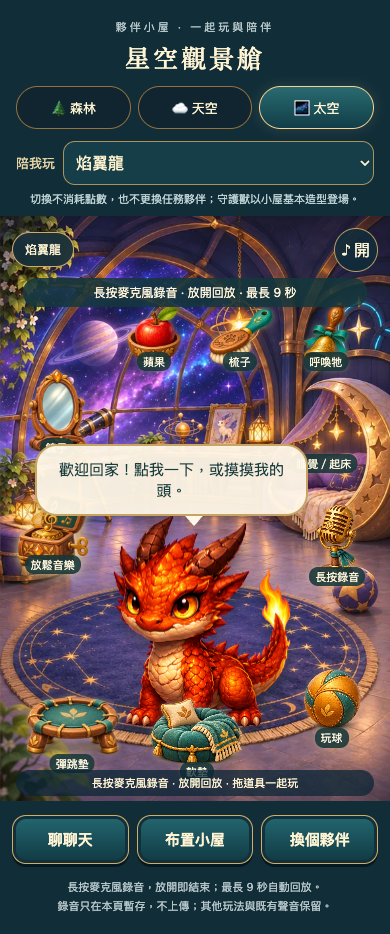
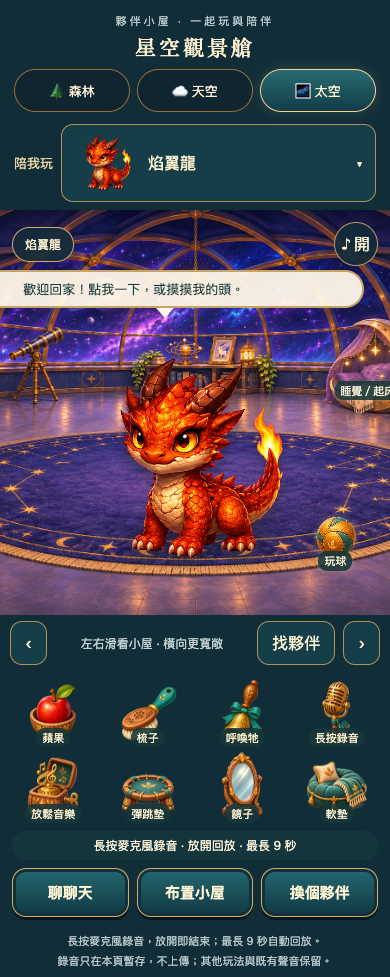
feat(home): apply wider rooms and responsive play space [actor:codex approval:user-24697]

diff --git a/public/guardian-home/free-ball.js b/public/guardian-home/free-ball.js
@@ -6,14 +6,15 @@
  let active=false,raf=0,last=0,elapsed=0,drag=null,suppressClick=false;
  let b={x:.8,y:1.2,vx:0,vy:0,spin:0},p={x:.5,y:1.12,vx:0,vy:0},nextKick=0,restUntil=0,contacts=0,face=1;
  const reduced=matchMedia('(prefers-reduced-motion: reduce)');
- function bounds(){return {left:.10,right:.90,top:.91,bottom:1.29}}
+ function height(){return stage.clientHeight/stage.clientWidth}
+ function bounds(){const h=height();return {left:.07,right:.93,top:h*.58,bottom:h*.90}}
  function stop(){active=false;cancelAnimationFrame(raf);raf=0;if(drag&&ball.hasPointerCapture(drag.id))ball.releasePointerCapture(drag.id);drag=null;stage.classList.remove('free-play');pet.classList.remove('ball-chase');pet.removeAttribute('data-ball-state');for(const key of ['left','top','width','transform'])pet.style.removeProperty(key);sprite.style.removeProperty('transform');sprite.style.removeProperty('background-position');sprite.style.removeProperty('animation');ball.removeAttribute('style');ball.dataset.caption='玩球';ball.setAttribute('aria-label','玩球，滑動球讓岩背龜追逐');lastPlay=Date.now()}
  const beforeReset=resetPet;resetPet=function(){stop();beforeReset()};
- function start(){if(active)return;if(panel.open||document.hidden)return;resetPet();active=true;elapsed=0;contacts=0;nextKick=.65;restUntil=.35;b={x:.80,y:1.19,vx:0,vy:0,spin:0};p={x:.50,y:1.12,vx:0,vy:0};stage.classList.add('free-play');pet.classList.add('ball-chase');ball.dataset.caption='滑一下球';say('把球滑出去，我來追！也可以點地毯傳球。');last=performance.now();render();raf=requestAnimationFrame(tick)}
- function render(){const size=.36+(p.y-.91)*.15;pet.style.width=`${size*100}%`;pet.style.left=`${(p.x-size*.5)*100}%`;pet.style.top=`${(p.y-size*.82)/1.5*100}%`;const speed=Math.hypot(p.vx,p.vy);if(Math.abs(p.vx)>.025)face=p.vx>0?-1:1;const gait=elapsed*15;const bob=reduced.matches?0:Math.sin(gait)*Math.min(3,speed*10);sprite.style.animation='none';sprite.style.backgroundPosition=speed>.04?(Math.sin(gait)>0?'50% 100%':'100% 100%'):(elapsed<restUntil?'100% 0%':'0% 0%');sprite.style.transform=`translateY(${bob}px) scaleX(${face*(window.guardianProfile?.facing??1)}) rotate(${reduced.matches?0:clamp(-p.vx*8,-4,4)}deg)`;ball.style.left=`${b.x*100}%`;ball.style.top=`${b.y/1.5*100}%`;ball.style.setProperty('--roll',`${b.spin}deg`);pet.dataset.ballState=drag?'watching':elapsed<restUntil?'resting':speed>.04?'chasing':'watching';}
+ function start(){if(active)return;if(panel.open||document.hidden)return;resetPet();active=true;elapsed=0;contacts=0;nextKick=.65;restUntil=.35;b={x:.68,y:height()*.80,vx:0,vy:0,spin:0};p={x:.50,y:height()*.80,vx:0,vy:0};stage.classList.add('free-play');pet.classList.add('ball-chase');ball.dataset.caption='滑一下球';say('把球滑出去，我來追！也可以點地毯傳球。');last=performance.now();render();raf=requestAnimationFrame(tick)}
+ function render(){const size=.26+(p.y/height()-.58)*.10;pet.style.width=`${size*100}%`;pet.style.left=`${(p.x-size*.5)*100}%`;pet.style.top=`${(p.y-size*.82)/height()*100}%`;const speed=Math.hypot(p.vx,p.vy);if(Math.abs(p.vx)>.025)face=p.vx>0?-1:1;const gait=elapsed*15;const bob=reduced.matches?0:Math.sin(gait)*Math.min(3,speed*10);sprite.style.animation='none';sprite.style.backgroundPosition=speed>.04?(Math.sin(gait)>0?'50% 100%':'100% 100%'):(elapsed<restUntil?'100% 0%':'0% 0%');sprite.style.transform=`translateY(${bob}px) scaleX(${face*(window.guardianProfile?.facing??1)}) rotate(${reduced.matches?0:clamp(-p.vx*8,-4,4)}deg)`;ball.style.left=`${b.x*100}%`;ball.style.top=`${b.y/height()*100}%`;ball.style.setProperty('--roll',`${b.spin}deg`);pet.dataset.ballState=drag?'watching':elapsed<restUntil?'resting':speed>.04?'chasing':'watching';}
  function tick(now){if(!active)return;const dt=Math.min(.034,(now-last)/1000);last=now;elapsed+=dt;const lim=bounds();if(!drag){b.x+=b.vx*dt;b.y+=b.vy*dt;for(const [axis,vel,lo,hi] of [['x','vx',lim.left,lim.right],['y','vy',lim.top,lim.bottom]]){if(b[axis]<lo||b[axis]>hi){b[axis]=clamp(b[axis],lo,hi);b[vel]*=-.78}}const decay=Math.exp(-1.1*dt);b.vx*=decay;b.vy*=decay;b.spin+=b.vx*dt*1000;}
- const dx=b.x+b.vx*.12-p.x,dy=b.y+b.vy*.12-p.y,d=Math.hypot(dx,dy);const speedCap=reduced.matches?.18:.39;let tx=0,ty=0;if(!drag&&elapsed>restUntil&&d>.085){const speed=Math.min(speedCap,d*1.8);tx=dx/d*speed;ty=dy/d*speed;}const ease=1-Math.exp(-5*dt);p.vx+=(tx-p.vx)*ease;p.vy+=(ty-p.vy)*ease;p.x=clamp(p.x+p.vx*dt,.18,.82);p.y=clamp(p.y+p.vy*dt,.96,1.27);
- if(!drag&&elapsed>restUntil&&elapsed>nextKick&&Math.hypot(b.x-p.x,b.y-p.y)<.14){const angle=Math.atan2(b.y-p.y,b.x-p.x)+(Math.random()-.5)*1.4;const strength=.35+Math.random()*.22;b.vx=Math.cos(angle)*strength;b.vy=Math.sin(angle)*strength;if(b.x<.2)b.vx=Math.abs(b.vx);if(b.x>.8)b.vx=-Math.abs(b.vx);if(b.y<1)b.vy=Math.abs(b.vy);if(b.y>1.22)b.vy=-Math.abs(b.vy);contacts++;nextKick=elapsed+1;restUntil=elapsed+(contacts%4===0?2.4:.30);if(contacts%4===0)say('呼～休息一下，換你傳給我！');else if(contacts===1)say('頂到了！再來！');}
+ const dx=b.x+b.vx*.12-p.x,dy=b.y+b.vy*.12-p.y,d=Math.hypot(dx,dy);const speedCap=reduced.matches?.18:.39;let tx=0,ty=0;if(!drag&&elapsed>restUntil&&d>.085){const speed=Math.min(speedCap,d*1.8);tx=dx/d*speed;ty=dy/d*speed;}const ease=1-Math.exp(-5*dt);p.vx+=(tx-p.vx)*ease;p.vy+=(ty-p.vy)*ease;p.x=clamp(p.x+p.vx*dt,.15,.85);p.y=clamp(p.y+p.vy*dt,lim.top,lim.bottom);
+ if(!drag&&elapsed>restUntil&&elapsed>nextKick&&Math.hypot(b.x-p.x,b.y-p.y)<.14){const angle=Math.atan2(b.y-p.y,b.x-p.x)+(Math.random()-.5)*1.4;const strength=.35+Math.random()*.22;b.vx=Math.cos(angle)*strength;b.vy=Math.sin(angle)*strength;if(b.x<.2)b.vx=Math.abs(b.vx);if(b.x>.8)b.vx=-Math.abs(b.vx);if(b.y<lim.top+.04)b.vy=Math.abs(b.vy);if(b.y>lim.bottom-.04)b.vy=-Math.abs(b.vy);contacts++;nextKick=elapsed+1;restUntil=elapsed+(contacts%4===0?2.4:.30);if(contacts%4===0)say('呼～休息一下，換你傳給我！');else if(contacts===1)say('頂到了！再來！');}
  render();if(elapsed>32&&!drag){stop();say('玩得好開心！想再玩就碰一下球。');return}raf=requestAnimationFrame(tick)}
  function point(e){const r=stage.getBoundingClientRect();return {x:(e.clientX-r.left)/r.width,y:(e.clientY-r.top)/r.width}}
  ball.onclick=e=>{if(suppressClick){suppressClick=false;return}start();b.vx=(p.x-b.x)*1.5;b.vy=-.15;tone()};

diff --git a/public/guardian-home/complete-home/index.html b/public/guardian-home/complete-home/index.html
@@ -6,8 +6,8 @@ $$('[data-room]').forEach(b=>b.onclick=()=>{state.room=+b.dataset.room;resetPet(
 $('#chat').onclick=()=>{open('<h2>想跟岩背龜說什麼？</h2><p>選一句話，看看牠怎麼回應你。</p><div class="choices"><button class="choice" data-talk="0">☀ 我今天很開心</button><button class="choice" data-talk="1">☾ 我有點累</button><button class="choice" data-talk="2">♡ 陪我一下</button><button class="choice" data-talk="3">✦ 我完成功課了</button></div><p class="tiny">這是固定台詞互動，不是 AI 自由聊天。</p>');$$('[data-talk]').forEach(b=>b.onclick=()=>{panel.close();happy(['你的開心也傳給我了！來，一起拍拍手！','辛苦了。我們慢慢呼吸，先休息一下吧。','好呀，不急著做什麼。我就在這裡陪你。','你有努力把事情做完耶！替自己拍拍手！'][+b.dataset.talk])})};
 $('#decorate').onclick=()=>{open('<h2>布置'+names[state.room]+'</h2><p>先試試小擺飾與燈光，每個房間分開記住。</p><div class="sub">窗邊小擺飾</div><div class="row">'+['原樣','✨ 星光','🌿 綠葉','💎 水晶'].map((x,i)=>`<button class="choice" data-decor="${i}" aria-pressed="${state.decor[state.room]===i}">${x}</button>`).join('')+'</div><div class="sub">房間燈光</div><button class="choice" id="light">'+(state.night[state.room]?'☀ 調亮房間':'☾ 柔和夜燈')+'</button><p id="saved" role="status">選擇後自動保存於這個瀏覽器。</p><p class="tiny">本版先示範擺飾切換；床、地毯與家具換款尚未開放。</p>');$$('[data-decor]').forEach(b=>b.onclick=()=>{state.decor[state.room]=+b.dataset.decor;render();save();$$('[data-decor]').forEach(x=>x.setAttribute('aria-pressed',x===b));$('#saved').textContent='✓ 已記住這個房間的布置'});$('#light').onclick=()=>{state.night[state.room]=!state.night[state.room];render();save();$('#light').textContent=state.night[state.room]?'☀ 調亮房間':'☾ 柔和夜燈';$('#saved').textContent='✓ 已記住燈光設定'}};
 $('#invite').onclick=()=>{open('<h2>邀請夥伴</h2><p>岩背龜已入住，點牠試試摸摸、休息與玩球。卡片收藏仍留在原本正式遊戲。</p><button class="choice" id="welcome">🐢 邀請岩背龜回到地毯</button><p class="tiny">不消耗卡片，不改動正式遊戲資料。</p>');$('#welcome').onclick=()=>{panel.close();happy('謝謝你邀請我！這裡就是我們的家。')}};render();say('歡迎回家！點我一下，或摸摸我的頭。');
-</script><script src="complete-home/interaction.js?v=2"></script><script src="motions.js?v=10"></script><script src="free-ball.js?v=11"></script><script src="complete-home/care-drag.js?v=2"></script><script src="music-call.js?v=11"></script><script src="touch-guard.js?v=11"></script><script>
+</script><script src="complete-home/interaction.js?v=2"></script><script src="motions.js?v=10"></script><script src="free-ball.js?v=12"></script><script src="complete-home/care-drag.js?v=2"></script><script src="music-call.js?v=12"></script><script src="touch-guard.js?v=12"></script><script>
 document.querySelector('header small').textContent='原始造型素材 · 2.5D 互動版';
 document.querySelector('.badge').textContent='岩背龜 · 原始設計';
 document.querySelector('footer').innerHTML='角色直接沿用原始造型圖，沒有重新建模或重新配色。<br>這是 2.5D 圖片互動，不是已還原完成的 3D 模型。<br>餵食、梳毛、玩球與音樂盒保留。';
-</script><script src="complete-home/bridge.js?v=3"></script><script type="importmap">{"imports":{"three":"./three-d/vendor/three.module.js"}}</script><script type="module" src="complete-home/face-loader.js?v=1"></script><style>.guardian-sprite{position:relative}.guardian-sprite canvas{position:absolute;inset:0;width:100%;height:100%;pointer-events:none}.guardian-sprite.face-on{background-image:none}.voice-avatar .guardian-sprite{background-image:url('assets/stoneback-poses-v1.png')!important}.voice-avatar canvas{display:none!important}.pet.fed-joy .guardian-sprite{animation:fed-joy .65s ease-in-out 3}@keyframes fed-joy{25%{transform:translateY(-8px) rotate(-5deg)}75%{transform:translateY(-4px) rotate(4deg)}}</style><link rel="stylesheet" href="complete-home/hold-voice.css?v=2"><script src="complete-home/hold-voice.js?v=2"></script><script src="complete-home/companion-picker.js?v=2"></script></html>
+</script><script src="complete-home/bridge.js?v=4"></script><script type="importmap">{"imports":{"three":"./three-d/vendor/three.module.js"}}</script><script type="module" src="complete-home/face-loader.js?v=1"></script><style>.guardian-sprite{position:relative}.guardian-sprite canvas{position:absolute;inset:0;width:100%;height:100%;pointer-events:none}.guardian-sprite.face-on{background-image:none}.voice-avatar .guardian-sprite{background-image:url('assets/stoneback-poses-v1.png')!important}.voice-avatar canvas{display:none!important}.pet.fed-joy .guardian-sprite{animation:fed-joy .65s ease-in-out 3}@keyframes fed-joy{25%{transform:translateY(-8px) rotate(-5deg)}75%{transform:translateY(-4px) rotate(4deg)}}</style><link rel="stylesheet" href="complete-home/hold-voice.css?v=2"><script src="complete-home/hold-voice.js?v=3"></script><script src="complete-home/companion-picker.js?v=2"></script><link rel="stylesheet" href="complete-home/wide-room.css?v=1"><script src="complete-home/wide-room.js?v=1"></script></html>

diff --git a/public/guardian-home/complete-home/wide-room.css b/public/guardian-home/complete-home/wide-room.css
@@ -1,0 +1,46 @@
+.app{display:block!important;max-width:1200px;min-height:100dvh}
+header{max-width:620px;margin:auto;padding:10px 14px 8px!important}
+header h1{font-size:21px;margin:3px 0 8px}.companion-note{display:none}
+.room-viewport{width:100%;overflow-x:auto;overflow-y:hidden;overscroll-behavior-x:contain;touch-action:pan-x pan-y pinch-zoom;scrollbar-width:thin}
+.app .stage{width:max(100%,720px);height:auto;max-height:none;aspect-ratio:var(--room-ratio,4/3);touch-action:pan-x pan-y pinch-zoom}
+.stage .room{background-size:100% 100%!important;background-position:center!important}
+.stage .pet{left:34%;top:var(--idle-top,45%);width:32%;touch-action:pan-x pan-y pinch-zoom}
+.stage .pet.sleep{left:var(--bed-x);top:var(--bed-y);width:18%}
+.stage .prop-bed{left:var(--bed-x);top:var(--bed-y);width:18%;height:22%;right:auto}
+.stage .ball{width:9%;left:65%;top:73%;right:auto}
+.stage.free-play .ball{width:8%;min-width:44px}
+.stage .care-ghost{width:76px}
+.stage .topline{left:calc(var(--camera-x,0px) + 12px);right:auto;width:calc(var(--camera-width,100%) - 24px);z-index:9;pointer-events:none}
+.topline .sound{pointer-events:auto}
+.stage .bubble,.stage.free-play .bubble,.stage.care-active .bubble,.stage.action-active .bubble{left:calc(var(--camera-x,0px) + 20px);width:calc(var(--camera-width,100%) - 40px);top:60px;max-width:460px;font-size:13px;padding:8px}
+.stage .hint{display:none}
+.view-controls{display:flex;align-items:center;justify-content:center;gap:8px;padding:6px 10px}
+.view-controls button{background:#153e48;border:1px solid #ae925b;border-radius:12px;min-height:44px;padding:8px 14px}
+.view-controls p{margin:0;font-size:12px;color:#c5d4d4;text-align:center;flex:1}
+.play-toolbar{display:grid;grid-template-columns:repeat(4,minmax(0,1fr));gap:4px;max-width:620px;margin:auto;padding:4px 8px 8px;-webkit-user-select:none;user-select:none;-webkit-touch-callout:none}
+.play-toolbar .room-prop{position:relative;left:auto;right:auto;top:auto;bottom:auto;width:64px;height:72px;min-width:44px;min-height:44px;justify-self:center;aspect-ratio:1;padding:0;border:0;background-color:transparent;background-size:300% 200%;background-repeat:no-repeat;font-size:0;border-radius:12px;color:#fff4d3;touch-action:pan-y pinch-zoom}
+.play-toolbar .care-source,.play-toolbar #voice{touch-action:none}
+.play-toolbar .prop-feed,.play-toolbar .prop-brush,.play-toolbar .prop-bell{background-image:url('../assets/care-props-v2.png')}
+.play-toolbar .prop-feed{background-position:0 0}.play-toolbar .prop-brush{background-position:50% 0}.play-toolbar .prop-bell{background-position:100% 0}
+.play-toolbar .prop-jump,.play-toolbar .prop-dance,.play-toolbar .prop-voice,.play-toolbar .prop-turn,.play-toolbar .prop-stretch{background-image:url('../assets/room-toys-v1.png')}
+.play-toolbar .prop-jump{background-position:0 0}.play-toolbar .prop-dance{background-position:50% 0}.play-toolbar .prop-voice{background-position:100% 0}.play-toolbar .prop-turn{background-position:0 100%}.play-toolbar .prop-stretch{background-position:50% 100%}
+.play-toolbar .room-prop:focus-visible{outline:2px solid white}.play-toolbar .care-held{opacity:.25}
+.hold-voice-status{position:static;max-width:600px;width:calc(100% - 24px);margin:0 auto;font-size:12px}
+.nav{flex-direction:row!important;max-width:620px;margin:auto;padding:8px 12px!important}footer{padding:6px 12px}
+@media(min-width:700px){.play-toolbar{max-width:900px;grid-template-columns:repeat(8,minmax(0,1fr))}}
+@media(orientation:landscape) and (max-height:520px) and (min-width:600px){
+ .app{display:grid!important;grid-template-columns:minmax(0,1fr) 150px;grid-template-rows:64px calc(100dvh - 114px) 50px auto;align-content:start}
+ header{grid-column:1/3;grid-row:1;display:flex;align-items:center;gap:12px;max-width:none;width:100%;padding:5px 10px!important}
+ header small,header h1,.companion-picker label{display:none}header .tabs{flex:1}.companion-picker{width:220px;margin:0}.companion-picker button{min-height:48px;padding:2px 8px}.companion-picker .companion-thumb{width:40px;height:40px}
+ .room-viewport{grid-column:1;grid-row:2;height:calc(100dvh - 114px)}
+ .app .stage{width:min(100%,calc((100dvh - 114px)*var(--room-ratio)));margin:auto}
+ .play-toolbar{grid-column:2;grid-row:2;grid-template-columns:repeat(2,minmax(0,1fr));padding:0;gap:0;width:100%;height:100%;align-content:space-evenly}
+ .play-toolbar .room-prop{width:48px;height:54px;min-height:44px}.play-toolbar .room-prop:after{font-size:10px}
+ .view-controls{grid-column:1;grid-row:3;padding:2px 4px}.hold-voice-status{grid-column:2;grid-row:3;font-size:10px;padding:2px}
+ .nav{grid-column:1/3;grid-row:4}footer{grid-column:1/3;grid-row:5}
+ .stage .bubble{top:48px!important;font-size:11px!important;padding:4px!important}
+}
+
+.stage.room-changing .pet{transition:none!important}
+
+.stage .prop-bed{touch-action:pan-x pan-y pinch-zoom}

diff --git a/public/guardian-home/music-call.js b/public/guardian-home/music-call.js
@@ -11,11 +11,11 @@
  function cancelCall(){cancelAnimationFrame(raf);clearTimeout(finish);const old=held;held=null;if(old&&bell.hasPointerCapture(old.id))bell.releasePointerCapture(old.id);ghost?.remove();ghost=null;bell.classList.remove('care-held');pet.classList.remove('being-called','music-sway');pet.removeAttribute('data-call');for(const k of ['left','top','width'])pet.style.removeProperty(k);sprite.style.removeProperty('transform');sprite.style.removeProperty('background-position');}
  resetPet=function(){cancelCall();previous();musicUI()};
  function ring(){try{const c=music||(ctx??=new(window.AudioContext||window.webkitAudioContext)());c.resume();const o=c.createOscillator(),g=c.createGain();o.connect(g);g.connect(c.destination);o.frequency.value=880;g.gain.setValueAtTime(.05,c.currentTime);g.gain.exponentialRampToValueAtTime(.001,c.currentTime+.7);o.start();o.stop(c.currentTime+.72);}catch{}}
- function come(x,y){resetPet();called++;ring();pet.classList.add('being-called');pet.dataset.call='walking';say('聽到鈴聲了，我來找你！');const r=stage.getBoundingClientRect(),tx=Math.max(.23,Math.min(.77,(x-r.left)/r.width)),ty=Math.max(.96,Math.min(1.25,(y-r.top)/r.width));const from={x:.5,y:1.14},start=performance.now(),duration=900+Math.hypot(tx-from.x,ty-from.y)*3000;const reduced=matchMedia('(prefers-reduced-motion: reduce)').matches;
- function draw(t){const v=Math.min(1,(t-start)/duration),u=v*v*(3-2*v),px=from.x+(tx-from.x)*u,py=from.y+(ty-from.y)*u;pet.style.width='44%';pet.style.left=`${(px-.22)*100}%`;pet.style.top=`${(py-.44*.82)/1.5*100}%`;sprite.style.transform=`scaleX(${(tx<from.x?1:-1)*(window.guardianProfile?.facing??1)}) translateY(${reduced?0:Math.sin(t/90)*2}px)`;sprite.style.backgroundPosition=Math.sin(t/90)>0?'50% 100%':'100% 100%';if(v<1)raf=requestAnimationFrame(draw);else{pet.dataset.call='arrived';sprite.style.transform='';sprite.style.backgroundPosition='50% 0%';say('我來啦！你在這裡呀。');finish=setTimeout(()=>{sprite.style.backgroundPosition='';pet.dataset.call='waiting'},1600)}}raf=requestAnimationFrame(draw);}
+ function come(x,y){resetPet();called++;ring();pet.classList.add('being-called');pet.dataset.call='walking';say('聽到鈴聲了，我來找你！');const r=stage.getBoundingClientRect(),h=r.height/r.width,tx=Math.max(.15,Math.min(.85,(x-r.left)/r.width)),ty=Math.max(h*.58,Math.min(h*.90,(y-r.top)/r.width));const from={x:.5,y:h*.80},start=performance.now(),duration=900+Math.hypot(tx-from.x,ty-from.y)*3000;const reduced=matchMedia('(prefers-reduced-motion: reduce)').matches;
+ function draw(t){const v=Math.min(1,(t-start)/duration),u=v*v*(3-2*v),px=from.x+(tx-from.x)*u,py=from.y+(ty-from.y)*u;pet.style.width='30%';pet.style.left=`${(px-.15)*100}%`;pet.style.top=`${(py-.30*.82)/h*100}%`;sprite.style.transform=`scaleX(${(tx<from.x?1:-1)*(window.guardianProfile?.facing??1)}) translateY(${reduced?0:Math.sin(t/90)*2}px)`;sprite.style.backgroundPosition=Math.sin(t/90)>0?'50% 100%':'100% 100%';if(v<1)raf=requestAnimationFrame(draw);else{pet.dataset.call='arrived';sprite.style.transform='';sprite.style.backgroundPosition='50% 0%';say('我來啦！你在這裡呀。');finish=setTimeout(()=>{sprite.style.backgroundPosition='';pet.dataset.call='waiting'},1600)}}raf=requestAnimationFrame(draw);}
  bell.dataset.caption='呼喚牠';bell.setAttribute('aria-label','鈴鐺，拖到地毯放手呼喚岩背龜');bell.classList.add('care-source');
  let blockClick=false;
- bell.onclick=()=>{if(blockClick)return;const r=stage.getBoundingClientRect();come(r.left+r.width*.65,r.top+r.width*1.12)};
+ bell.onclick=()=>{if(blockClick)return;const r=stage.getBoundingClientRect();come(r.left+r.width*.65,r.top+r.height*.80)};
  bell.onpointerdown=e=>{if(e.button!==0||held)return;e.preventDefault();resetPet();held={id:e.pointerId,x:e.clientX,y:e.clientY};ghost=document.createElement('span');ghost.className='care-ghost care-call';stage.append(ghost);bell.classList.add('care-held');bell.setPointerCapture(e.pointerId);position(e)};
  function position(e){if(!held||held.id!==e.pointerId)return;held.x=e.clientX;held.y=e.clientY;const r=stage.getBoundingClientRect();ghost.style.left=`${Math.max(20,Math.min(r.width-20,e.clientX-r.left))}px`;ghost.style.top=`${Math.max(20,Math.min(r.height-20,e.clientY-r.top))}px`;}
  bell.onpointermove=position;bell.onpointerup=e=>{if(!held||held.id!==e.pointerId)return;const {x,y}=held;blockClick=true;setTimeout(()=>blockClick=false,300);cancelCall();come(x,y)};bell.onpointercancel=()=>cancelCall();bell.onlostpointercapture=()=>{if(held)cancelCall()};window.addEventListener('pagehide',cancelCall);

diff --git a/public/guardian-home/complete-home/wide-room.js b/public/guardian-home/complete-home/wide-room.js
@@ -1,0 +1,19 @@
+(()=>{
+ const stage=$('.stage'),viewport=document.createElement('div');viewport.className='room-viewport';viewport.setAttribute('aria-label','加寬小屋，左右滑動查看');stage.before(viewport);viewport.append(stage);
+ const controls=document.createElement('div');controls.className='view-controls';controls.innerHTML='<button type="button" aria-label="向左看">‹</button><p>左右滑看小屋 · 橫向更寬敞</p><button type="button" aria-label="回到夥伴">找夥伴</button><button type="button" aria-label="向右看">›</button>';viewport.after(controls);
+ const toolbar=document.createElement('div');toolbar.className='play-toolbar';toolbar.setAttribute('aria-label','小屋玩具與照護');controls.after(toolbar);
+ for(const selector of ['.prop-feed','.prop-brush','.prop-bell','#voice','.prop-dance','.prop-jump','.prop-turn','.prop-stretch'])toolbar.append($(selector));
+ toolbar.after($('.hold-voice-status'));
+ let manualUntil=0,followFrame=0,previous=0;
+ function camera(){stage.style.setProperty('--camera-x',viewport.scrollLeft+'px');stage.style.setProperty('--camera-width',Math.min(viewport.clientWidth,stage.clientWidth)+'px')}
+ function center(smooth=false){const r=pet.getBoundingClientRect(),v=viewport.getBoundingClientRect();viewport.scrollTo({left:viewport.scrollLeft+r.left+r.width/2-v.left-v.width/2,behavior:smooth?'smooth':'instant'});camera()}
+ const btn=controls.querySelectorAll('button');btn[0].onclick=()=>{manualUntil=performance.now()+4000;viewport.scrollBy({left:-viewport.clientWidth*.65,behavior:'smooth'})};btn[2].onclick=()=>{manualUntil=performance.now()+4000;viewport.scrollBy({left:viewport.clientWidth*.65,behavior:'smooth'})};btn[1].onclick=()=>{manualUntil=0;center(true)};
+ viewport.addEventListener('scroll',camera,{passive:true});viewport.addEventListener('pointerdown',()=>manualUntil=performance.now()+3000,{passive:true});
+ const rooms=[['forest',4/3,56,29],['cloud',3/2,79,26],['cosmos',1672/941,65,25]];
+ function sync(){stage.classList.add('room-changing');const [name,ratio,bx,by]=rooms[state.room];stage.style.setProperty('--room-ratio',ratio);stage.style.setProperty('--idle-top',(80-.32*.82*ratio*100)+'%');stage.style.setProperty('--bed-x',bx+'%');stage.style.setProperty('--bed-y',by+'%');$('.room').style.backgroundImage=`url(assets/room-wide-${name}-v1.png)`;stage.dataset.wideRoom=name;void pet.offsetWidth;requestAnimationFrame(()=>{center();stage.classList.remove('room-changing')});}
+ const oldRender=render;render=function(){oldRender();sync()};sync();
+ const observer=new ResizeObserver(()=>{resetPet();sync()});observer.observe(viewport);
+ function follow(t){const dt=Math.min(40,t-previous||16);previous=t;if(!document.hidden&&!panel.open&&t>manualUntil&&(pet.classList.contains('ball-chase')||pet.classList.contains('being-called'))){const r=pet.getBoundingClientRect(),v=viewport.getBoundingClientRect(),dx=r.left+r.width/2-v.left-v.width/2;viewport.scrollLeft+=dx*(1-Math.exp(-dt/220));camera();}followFrame=requestAnimationFrame(follow)}followFrame=requestAnimationFrame(follow);
+ window.addEventListener('pagehide',()=>{cancelAnimationFrame(followFrame);observer.disconnect()});
+ window.guardianWideRoom={center,viewport,room:()=>state.room};
+})();

diff --git a/public/guardian-home/complete-home/hold-voice.js b/public/guardian-home/complete-home/hold-voice.js
@@ -20,8 +20,8 @@
  mic.addEventListener('keydown',e=>{if(e.code==='Space'||e.code==='Enter'){e.preventDefault();if(!e.repeat)begin('keyboard')}else if(e.code==='Escape')abort()});
  mic.addEventListener('keyup',e=>{if(e.code==='Space'||e.code==='Enter'){e.preventDefault();end('keyboard')}});mic.addEventListener('blur',()=>{if(held==='keyboard')abort()});
  // Suppress synthetic click (and the old click-to-open/reset listeners).
- room.addEventListener('click',e=>{if(e.target.closest('#voice')){e.preventDefault();e.stopImmediatePropagation()}},true);
- for(const name of ['contextmenu','selectstart','dragstart'])room.addEventListener(name,e=>e.preventDefault());
+ $('.app').addEventListener('click',e=>{if(e.target.closest('#voice')){e.preventDefault();e.stopImmediatePropagation()}},true);
+ for(const name of ['contextmenu','selectstart','dragstart'])$('.app').addEventListener(name,e=>e.preventDefault());
  document.addEventListener('visibilitychange',()=>{if(document.hidden)abort()});window.addEventListener('pagehide',abort);window.addEventListener('blur',()=>{if(held!==null)abort()});
  $('.hint').textContent='長按麥克風錄音 · 放開回放 · 拖道具一起玩';
  $('footer').innerHTML='長按麥克風錄音，放開即結束；最長 9 秒自動回放。<br>錄音只在本頁暫存，不上傳；其他玩法與既有聲音保留。';

diff --git a/public/guardian-home/complete-home/bridge.js b/public/guardian-home/complete-home/bridge.js
@@ -10,7 +10,7 @@
  const oldReact=react;react=function(kind,text){oldReact(kind,text);speak(kind==='cuddle'?'pet':kind==='laugh'?'play':'hello')};
  window.addEventListener('guardian-fed',()=>{pet.classList.add('fed-joy');say('好好吃！謝謝你，我吃得好開心！');hearts();speak('fed');clearTimeout(joyTimer);joyTimer=setTimeout(()=>pet.classList.remove('fed-joy'),1950)});
  new MutationObserver(()=>{if(pet.dataset.care==='comfortable'&&performance.now()-lastBrush>4000){lastBrush=performance.now();speak('pet')}}).observe(pet,{attributes:true,attributeFilter:['data-care']});
- $('.stage').addEventListener('pointerdown',()=>{if(state.sound)init().resume().catch(()=>{})},{capture:true});
+ $('.app').addEventListener('pointerdown',()=>{if(state.sound)init().resume().catch(()=>{})},{capture:true});
  const oldSound=$('.sound').onclick;$('.sound').onclick=()=>{oldSound();if(!state.sound){stop();say('互動音效與固定台詞已關閉。')}else{say('互動音效與固定台詞已開啟。');speak('hello')}};
  document.addEventListener('visibilitychange',()=>{if(document.hidden){stop();clearTimeout(joyTimer);pet.classList.remove('fed-joy')}});window.addEventListener('pagehide',stop);
  window.guardianHome={state:()=>{

diff --git a/src/GuardianHome.tsx b/src/GuardianHome.tsx
@@ -12,7 +12,7 @@ export default function GuardianHome({visible,onClose,companions,selected}:{visi
     <Text style={{color:'#fff0c1',flex:1}}>守護獸小屋</Text>
    </View>
    {Platform.OS==='web'?React.createElement('iframe',{
-    title:'守護獸互動小屋',src:'/guardian-home/complete-home/index.html?v=companions3&companions='+encodeURIComponent(companions.join(','))+'&companion='+encodeURIComponent(selected||companions[0]||''),
+    title:'守護獸互動小屋',src:'/guardian-home/complete-home/index.html?v=wide1&companions='+encodeURIComponent(companions.join(','))+'&companion='+encodeURIComponent(selected||companions[0]||''),
     allow:'microphone',style:{border:0,width:'100%',flex:1,minHeight:0,background:'#071820'},
     'data-testid':'guardian-home-frame'
    }):<Text style={{color:'#fff0c1',padding:20}}>請使用網頁版開啟互動小屋。</Text>}

diff --git a/public/guardian-home/touch-guard.js b/public/guardian-home/touch-guard.js
@@ -1,7 +1,7 @@
 // Lock only gestures that START on draggable props (or hold-to-record).
 // Touch targets stay fixed through a gesture, even after leaving the prop.
 (()=>{
- const room=document.querySelector('.stage');
+ const room=document.querySelector('.app');
  const controls='.ball,.care-source,#voice';
  room.addEventListener('touchmove',e=>{
   if(e.touches.length===1&&e.target.closest?.(controls)&&e.cancelable)e.preventDefault();

diff --git a/reports/guardian-home-integration/STATUS.md b/reports/guardian-home-integration/STATUS.md
@@ -42,3 +42,8 @@ Final production: Render dep-dc18dnqfngtc73eubu40 Live5fd3e48 at14:10:22 Taipei.
 - Build, 320/390 roster and switching checks, and 390/1024 embedded gameplay/progress checks passed. Actual screenshots reviewed. Production deployment pending.
 
 Production: ef629e5 deployed successfully via Render dep-dc18sinf3r2c73c0sf3g. Hosted portrait rendering, allowed-only lists, current selection, modal switching and legacy fallback all PASS.
+
+## Wider rooms applied — user 24697
+- Applied approved forest4:3/cloud3:2/cosmos~16:9 generated proposals unchanged, original rooms.png retained. Portrait uses 720px-minimum world and native horizontal camera scrolling; desktop opens wider, short landscape fits scene beside toy dock. Find-companion/arrows and chase/call camera tracking added. No new art generation in this batch.
+- Moved existing care/music/microphone/actions into accessible dock; original handlers/audio retained. Floor physics and bell targets now use actual stage aspect ratio; resize resets old coordinates. Kept vertical scrolling and drag-only locking, including long-press mic protections. Sleep hotspot follows each illustrated bed.
+- Build passed. Three-room390/844/1024 feed, bell, ball contact, music and hold-record tests passed; all8 companions touch feed/brush/voice passed. Integrated390/1024 account progress unchanged, microphone released on exit. Native CDP horizontal pan/recenter/prop isolation/orientation reset passed; fixed sleep hotspot pan-y-only setting found by test. Screenshots reviewed. Physical iPhone feel awaits Jerry.
